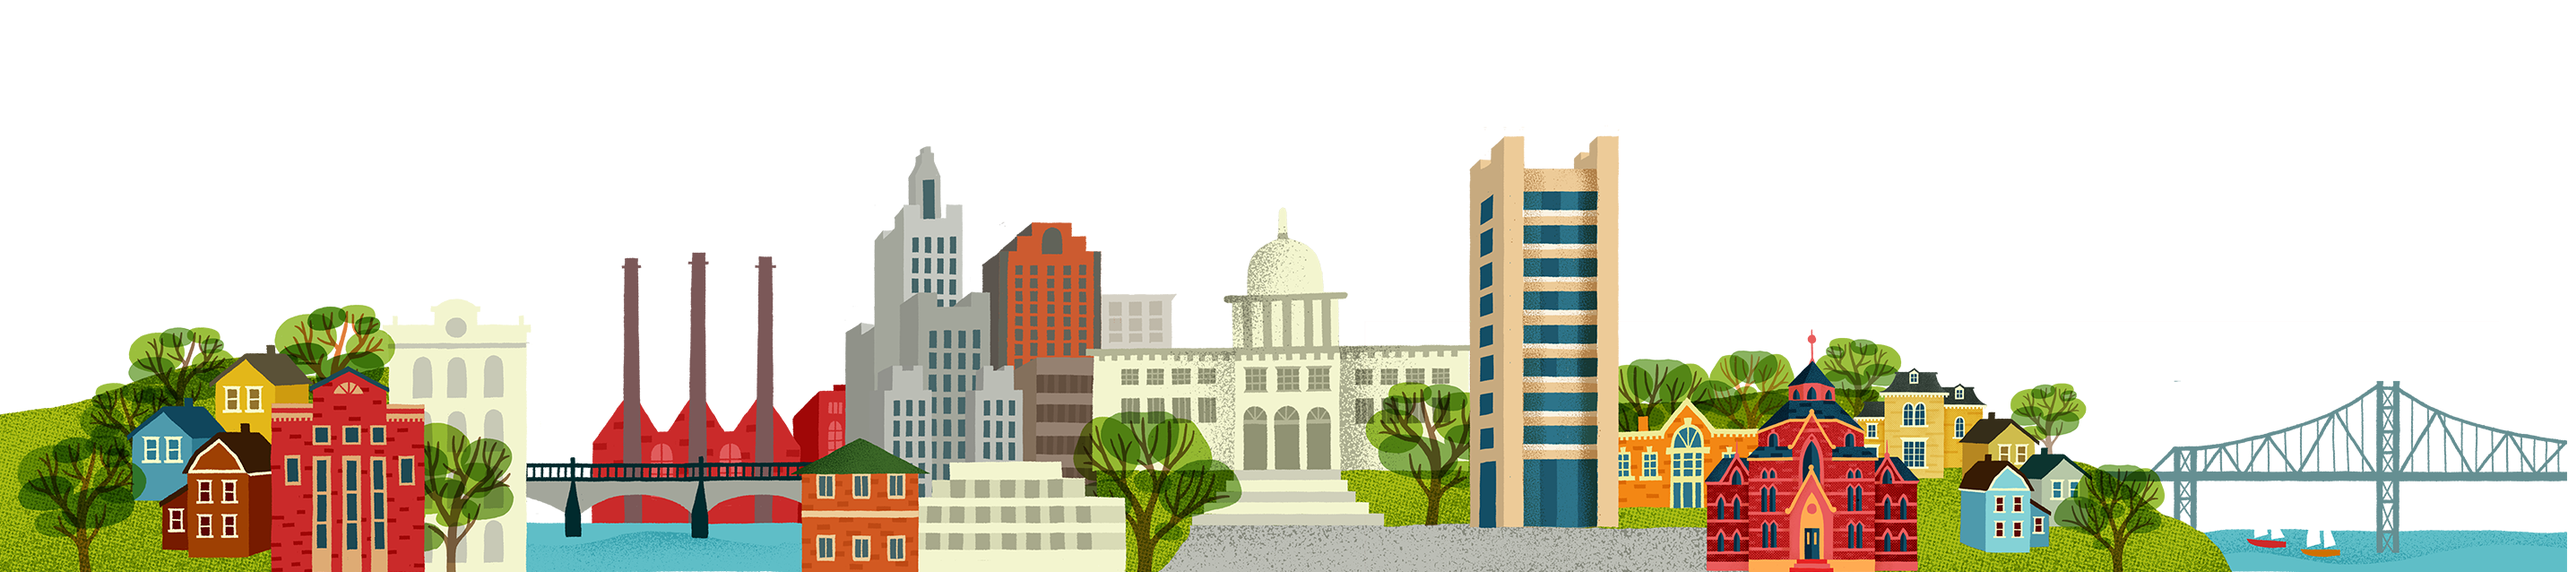
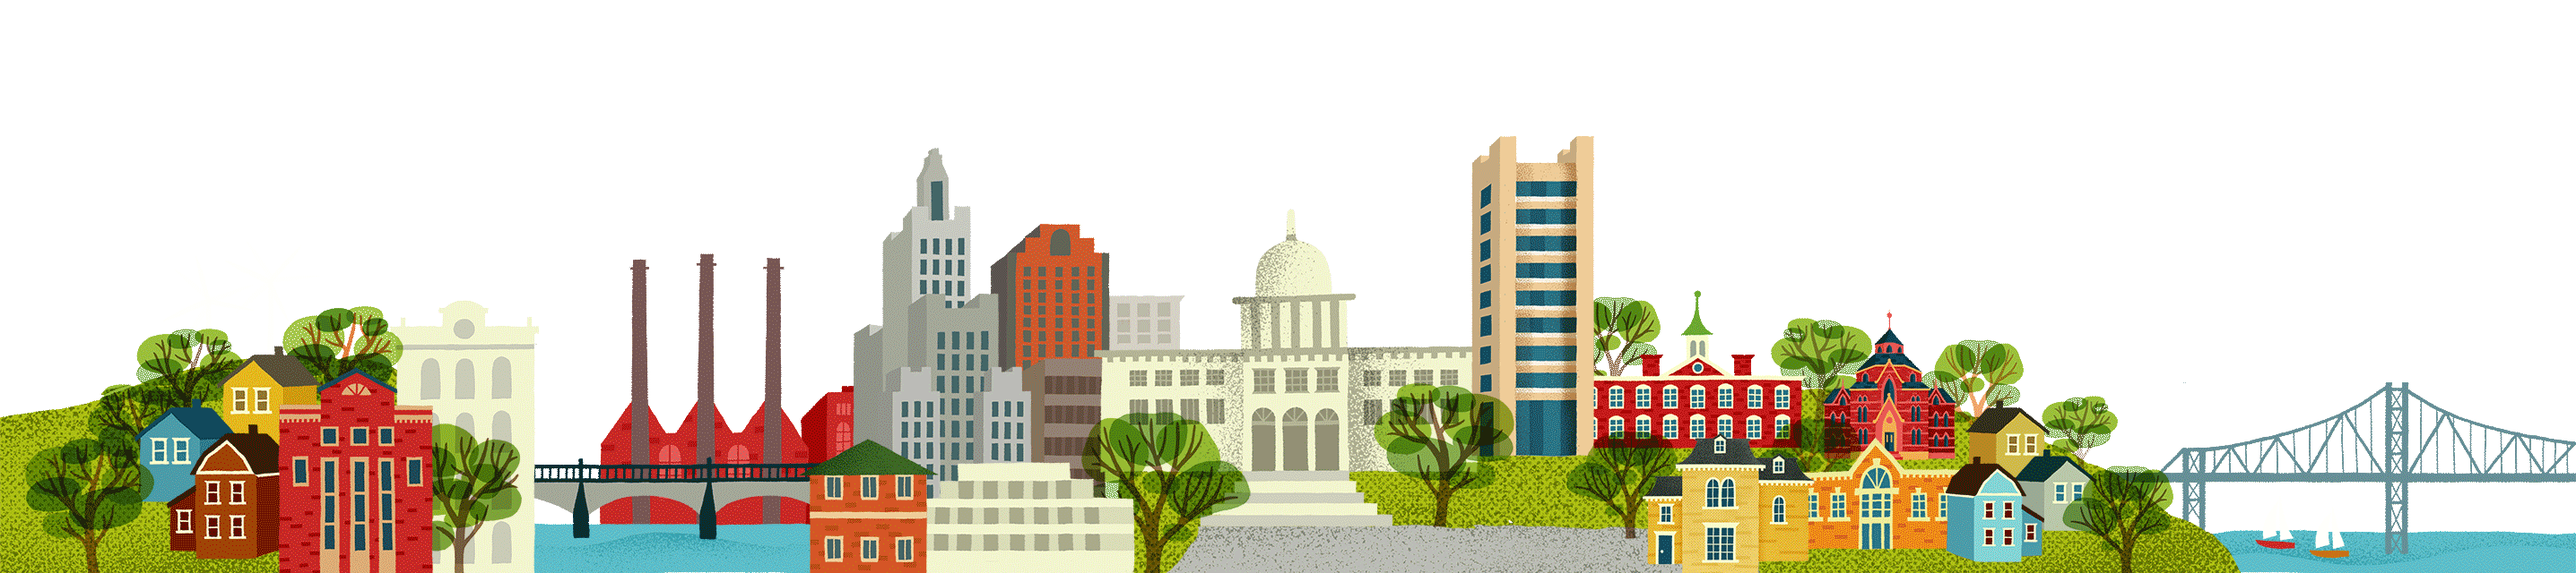
Update cityscape image & clouds
Made the clouds larger, replaced the image of the Cityscape with the updated one, but saved it as a PNG8 instead which made the file almost 66% smaller.

Changed region(s): [[0.0, 0.2382, 1.0, 1.0], [0.963, 0.9232, 1.0, 0.953]]

diff --git a/_sass/components/_clouds.scss b/_sass/components/_clouds.scss
@@ -27,37 +27,37 @@ $overall-duration: 120s;
 
 $cloud-map: (
   1: (
-    width: 25vw,
-    height: 12vw,
-    top: 15%,
+    width: 26vw,
+    height: 14vw,
+    top: 10%,
     left: -10%,
     animation-duration: ($overall-duration * 0.86)
   ),
   2: (
-    width: 18vw,
-    height: 9vw,
-    top: 30%,
+    width: 20vw,
+    height: 11vw,
+    top: 25%,
     left: 30%,
     animation-duration: ($overall-duration * 0.9)
   ),
   3: (
-    width: 22vw,
-    height: 11vw,
-    top: 20%,
+    width: 30vw,
+    height: 18vw,
+    top: 15%,
     left: 45%,
     animation-duration: ($overall-duration * 0.88)
   ),
   4: (
-    width: 20vw,
-    height: 10vw,
-    top: 25%,
+    width: 26vw,
+    height: 14vw,
+    top: 20%,
     left: 60%,
     animation-duration: ($overall-duration * 0.95)
   ),
   5: (
-    width: 16vw,
-    height: 8vw,
-    top: 33%,
+    width: 32vw,
+    height: 20vw,
+    top: 5%,
     left: 85%,
     animation-duration: $overall-duration
   )
